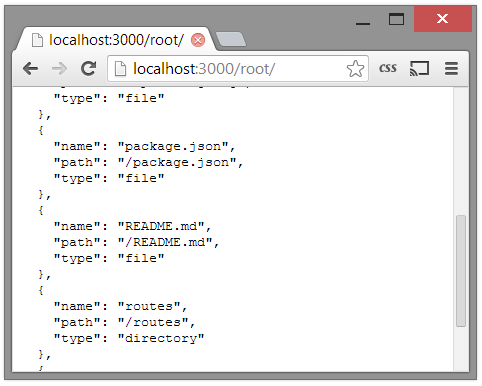
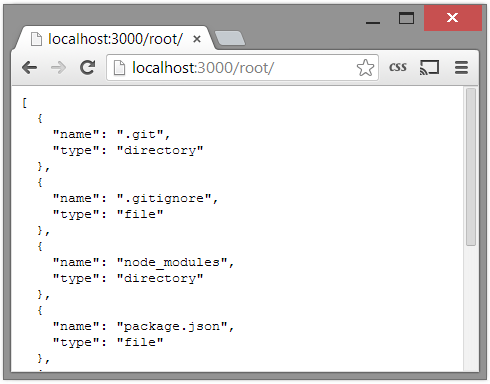
guide update

diff --git a/README.md b/README.md
@@ -12,27 +12,33 @@ floppy
 - [Angular Connection](#50-angular-connection)
 
 ## 0.0 Technologies
-**floppy** can be used from any web browser, but it is more than just a web page. **floppy** would better be described as a file server. We will use [Node.js](http://nodejs.org) and a node module [Express](http://expressjs.com) to implement this service. On the web page side a mix of jQuery, Bootstrap, and AngularJS will power an intuitive interface.
+**floppy** can be used from any web browser, but it is more than just a web page. 
+**floppy** would better be described as a file server. 
+We will use [Node.js](http://nodejs.org) and a node module [Express](http://expressjs.com) to implement this service. 
+On the web page side a mix of [AngularJS](http://angularjs.org) and [Bootstrap](http://getbootstrap.com) will power an intuitive interface.
 
 ## 1.0 Serving
-In this chapter we create a simple web server that is mapped onto your filesytem using a chosen root directory. This system will make up our **floppy** server. When accessing our server, any URL that is down the `root/` path we should handle the HTTP request in two ways.
+First we create a simple web server that is mapped onto your filesytem using a chosen root directory. 
+This system will make up our **floppy** server. When accessing our server, any URL that is down the `root/` path we should handle the HTTP request in two ways.
 
-1. If the URL maps to a file, let the client download the desired file.
-2. If the URL maps to the directory, return a JSON file containing the contents of the directory.
+1. If the URL maps to a file, let the client download the desired file;
+2. else (the URL maps to the directory), return a JSON file containing the contents of the directory.
 
 ### 1.1 Setting up Node
-[Node.js](http://nodejs.org) will be our server backend in **floppy**. Node is still in a very preliminary stage of development, and really isn't recommened for use in production environments. However, I believe Node is an amazingly innovative networked application framework and it is worth learning about, it will only get better. Node itself is easy to setup, just head to the [Node.js website](http://nodejs.org) and install Node. Be sure to also install `npm` the Node Package Manager.
+[Node.js](http://nodejs.org) will be our server backend in **floppy**. 
+Node is still in a very preliminary stage of development, and really isn't recommened for use in production environments. 
+However, I believe Node is an amazingly innovative networked application framework and it is worth learning about, it will only get better. 
+Node itself is easy to setup, just head to the [Node.js website](http://nodejs.org) and install Node. 
+Be sure to also install `npm` the Node Package Manager.
 
-After installation, using Node is as easy as starting up an instance of the Node.js command prompt. This terminal will give you access to Node utilities such as running programs and the Node package manager `npm`.
+After installation, using Node is as easy as starting up an instance of the Node.js command prompt. 
+This terminal will give you access to Node utilities such as running programs and the Node package manager `npm`.
 
 ### 1.2 Setting up Express
-[Express](http://expressjs.com) is a web application framework that we will use to easily create our file serving API. We will create a super simple Express application that will be our foundation for the **floppy** server.
+[Express](http://expressjs.com) is a web application framework that we will use to easily create our file serving API. 
+We will create a super simple Express application that will be our foundation for the **floppy** server.
 
 Inside a Node.js command prompt, create a folder for the **floppy** server and navigate inside.
-```shell
-mkdir floppy-server
-cd floppy-server
-```
 From here we will create our package description for our Node.js application. Copy the below configuration to `package.json`.
 ```json
 {
@@ -44,50 +50,74 @@ From here we will create our package description for our Node.js application. Co
 	}
 }
 ```
-The above is mostly self explanatory, with basic application information and a declaration that Express is a dependency. It is recommended to replace `"3.*"` with the most recent Express version, which can be found with `npm info express version`. At the time of writing, this was `3.5.1`.
+The above is mostly self explanatory, with basic application information and a declaration that Express is a dependency. 
+It is recommended to replace `"3.*"` with the most recent Express version, which can be found with `npm info express version`. 
+At the time of writing, this was `3.5.1`.
 
 Now to install our application dependencies, from the Node.js command prompt enter,
 ```shell
 npm install
 ```
-This will install Express and its own dependencies. The next step will finally involve code. We will create a simple Express instance that will basically be our hello world application.
+This command prompts Node to read our `package.json` and will install Express and its own dependencies. 
+If successful you will now have a `node_modules` directory.
+The next step will finally involve some code. 
+We will create a simple Express instance that will basically be our hello world application.
 
-We first create a file in our `floppy-server` directory named `server.js`. Inside we first `require(1)` Express and then create an instance (`require(1)` is similar to a Java or C `import`)
+We first create a file in our `server` directory named `server.js`. 
+Inside we first `require(1)` Express and then create an instance.
+`require(1)` is a Node function to import other Node modules and to make them available for our code.
 ```javascript
 var express = require('express');
 var app = express();
 ```
-We will now set up a route to respond to all HTTP requests. HTTP requests come with a request method, you may have heard of `GET` and `POST` from different ways to submit parameters to a webpage, but there are also others like `PUT` and `DELETE`. We can respond to these different request methods in different ways. For now we will respond to all HTTP request methods, this accounts for the `app.all(2)` call. The first argument is the URL we want to map, `'*'` is a wildcard to catch all URLs. We then use the Express [`Response`](http://expressjs.com/3x/api.html#res) object to send a simple HTML message back to the client in the callback.
+We will now set up a route to respond to all HTTP requests. 
+HTTP requests come with a request method, you may have heard of `GET` and `POST` from different ways to submit parameters to a webpage, but there are also others like `PUT` and `DELETE`. 
+We can respond to these different request methods in different ways. 
+For now we will respond to all HTTP request methods, this accounts for the `app.all(2)` call. 
+The first argument is the URL we want to map, `'*'` is a wildcard to catch all URLs. 
+We then use the Express [`Response`](http://expressjs.com/3x/api.html#res) object to send a simple HTML message back to the client in the callback.
 ```javascript
 // respond to all HTTP requests
 app.all('*', function(req, res) {
     res.send('Hello <strong>floppy</strong> user!');
 });
 ```
-The last step is to start the Express web server. This is a call to `app.server(2)` that opens a socket on the requested port. We also log to the console on success.
+The last step is to start the Express web server. 
+This is a call to `app.server(2)` that opens a socket on the requested port. 
+We also log to the console on success.
 ```javascript
 // start listening for HTTP requests
 var server = app.listen(3000, function() {
     console.log('Listening on port %d', server.address().port);
 });
 ```
-The last step is to run the server. Return to the Node.js command prompt and your working directory and enter,
+The all there is to do is run the server. 
+Return to the Node.js command prompt and your working directory and enter,
 ```shell
 node server
 ```
-You should receive a message that the server is running on port 3000. Open up your favorite browser and navigate to [http:\\\\localhost:3000](http:\\localhost:3000). You should be greeted by your friendly greeting. Note that any URL you enter will result in the same response from the server.
+You should receive a message that the server is running on port 3000. 
+Open up your favorite browser and navigate to [http:\\\\localhost:3000](http:\\localhost:3000). 
+You should be greeted by your friendly greeting. 
+Note that any URL you enter will result in the same response from the server.
 
 ![hello floppy user](images/01.png)
 
 For a more in-depth tutorial on Express and routes I would recommend [Introduction to Express](http://code.tutsplus.com/tutorials/introduction-to-express--net-33367).
 
-[View Commit](https://github.com/colinbrownec/floppy-server/commit/8f639aaedbcab9c4f26f158d6b9f66e74b44afc2)
+[View Commit](https://github.com/colinbrownec/floppy/commit/38e2c3c98cdabea8ac986da9c0a2912eefaa2c31)
 
 ## 2.0 Serving the File System
-Now that we have a simple server, we want to have it return some useful information. We will now change our Express server to return results based on URL. The first thing to do is replace the `app.all(2)` with `app.get(2)`. Both calls are part of the `app.VERB(2)` routing commands where `VERB` is the matching HTML request method. We now only care about `GET` request methods since we will be implementing procedures to read data.
+Now that we have a simple server, we want to have it return some useful information. 
+We will now change our Express server to return results based on URL. 
+The first thing to do is replace the `app.all(2)` with `app.get(2)`. 
+Both calls are part of the `app.VERB(2)` routing commands where `VERB` is the matching HTML request method. 
+We now only care about `GET` request methods since we will be implementing procedures to read data.
 
 ### 2.1 Finding the Path
-Usually Express is used to narrow down what function to call be setting up various routes and using paramters. We really don't need specific routes and parameters, our one paramter is the URL path. But to make sure we can add more routes later we will route the URL `/root/` to our application.
+Usually Express is used to narrow down what function to call by setting up various routes and using paramters. 
+We really don't need specific routes and parameters, our one paramter is the URL path. 
+But to make sure we can add more routes later we will route the URL `/root/` to our application.
 
 We place the following code in a new file `floppy-server/routes/floppy.js`,
 ```javascript
@@ -95,7 +125,8 @@ exports.parse = function(req, res) {
     res.send(req.params[0]);
 };
 ```
-This is a Node.js module package that basically acts as a class definition. We import our newly created module in `server.js`,
+This is a Node.js module package that basically acts as a class definition. 
+We import our newly created module in `server.js`,
 ```javascript
 var express = require('express');
 var floppy = require('./routes/floppy');
@@ -112,10 +143,13 @@ var server = app.listen(3000, function() {
     console.log('Listening on port %d', server.address().port);
 });
 ```
-The `require(1)` statement creates an instance of our floppy module which we save in a variable named `floppy`. Running the application will now start a server that echoes any URL that is down the `/root/` path. Note that `/root/` is already removed from the current path. 
+The `require(1)` statement creates an instance of our floppy module which we save in a variable named `floppy`. 
+Running the application will now start a server that echoes any URL that is down the `/root/` path. 
+Note that `/root/` is already removed from the current path. 
 
 ### 2.2 Parsing the Path
-We can now further develop our `floppy.parse(2)` method to implement our file server. Below is our updated `routes/floppy.js` file.
+We can now further develop our `floppy.parse(2)` method to implement our file server. 
+Below is our updated `routes/floppy.js` file.
 ```javascript
 var fs =    require('fs');
 var path =  require('path');
@@ -155,30 +189,38 @@ exports.parse = function(req, res) {
     }
 };
 ```
-There is much new functionality. We first also include the Node modules [`fs`](http://nodejs.org/api/fs.html), which provides many file system methods, and [`path`](http://nodejs.org/api/path.html) which resolves URL's to make sure the are safe and accurate. We also have a `root` variable that is a floppy-relative (or explicit) path that we want `/root/` to map to. We also provide a mechanism to update this root via `floppy.root(1)`.
+There is much new functionality. We first also include the Node modules [`fs`](http://nodejs.org/api/fs.html), which provides many file system methods, and [`path`](http://nodejs.org/api/path.html) which resolves URL's to make sure the are safe and accurate. 
+We also have a `root` variable that is a floppy-relative (or explicit) path that we want `/root/` to map to. 
+We also provide a mechanism to update this root via `floppy.root(1)`.
 
-The largest changes are in the `floppy.parse(2)` implementation. Given a URL we check to see if it is valid; if it is we either return the file requested, or return an array of file names if it is a directory. If the URL requested is bad then we return an error message.
+The largest changes are in the `floppy.parse(2)` implementation. 
+Given a URL we check to see if it is valid; if it is we either return the file requested, or return an array of file names if it is a directory. 
+If the URL requested is bad then we return an error message.
 
-Run the application again. Using a browser, any URL in the `localhost:3000/root/` directory should either result in a directory listing or in a file download.
+Run the application again. 
+Using a browser, any URL in the `localhost:3000/root/` directory should either result in a directory listing or in a file download.
 
 ![floppy parsing](images/02.png)
 
-If you are experienced with Express, you may be thinking that it really isn't needed to do this. You would be correct, this is much too simple to need Express. However the scope of this project is large, and we will eventually want to handle different routes and HTTP request methods. So this is a good place to start.
+If you are experienced with Express, you may be thinking that it really isn't needed to do this. 
+You would be correct, this is much too simple to need Express. 
+However the scope of this project is large, and we will eventually want to handle different routes and HTTP request methods. 
+So this is a good place to start.
 
-[View Commit](https://github.com/colinbrownec/floppy-server/commit/f34b175c12957704c6fff4111a3249f4e0daf63f)
+[View Commit](https://github.com/colinbrownec/floppy/commit/12b0b1e756f4bad439f6d757d64c12b0423fc98e)
 
 ## 3.0 Detailing the Directory
-Our handling for files right now is great, you ask for the file, we give it to you. Handling a directory could still use some work. For now we will use the following json structure to return the contents of a directory, where each directory item is a new object in the array.
+Our handling for files right now is great, you ask for the file, we give it to you. 
+Handling a directory could still use some work. 
+For now we will use the following json structure to return the contents of a directory, where each directory item is a new object in the array.
 ```json
 [
   {
     "name": "a_file.txt",
-    "path": "/a_file.txt",
     "type": "file"
   },
   {
     "name": "more_files",
-    "path": "/more_files",
     "type": "directory"
   },
 ]
@@ -197,7 +239,6 @@ Below is the modified code that returns the response to a directory HTTP `GET` r
                 var fstat = fs.statSync(path.resolve(url, name));
                 
                 var file = { 'name': name,
-                             'path': '/' + name,
                              'type': fstat.isFile() ? 'file' : 'directory'
                            };
                 results.push(file);
@@ -212,7 +253,7 @@ This really shouldn't seem that different. Instead of just returning our array o
 
 ![aggregated directory information](images/03.png)
 
-[View Commit](https://github.com/colinbrownec/floppy-server/commit/039b4991f7719551d28ffac7e7d6901f1c58f892)
+[View Commit](https://github.com/colinbrownec/floppy/commit/a579a3cb5c72ebc829b5e334bfff65236f3de675)
 
 ## 4.0 Client Model
 The **floppy** client is a separate web application that must know how to connect to a floppy server. 
@@ -220,6 +261,9 @@ We will be using AngularJS which is an amazing implementation of the Model-View-
 I view the `.html` as the model, `.css` as the view and `.js` as the controller. 
 This could be said about libraries like jQuery, but AngularJS is special because it provides two way data binding.
 Two way data binding allows you to bind a variable to an input box, and when the input value changes the variable updates and when the variable changes the input box updates.
+We start using an initial html template, containing only boilerplate import statements and a few header tags.
+
+[View Commit](https://github.com/colinbrownec/floppy/commit/be5e48d72c0c8018ae0749e60c281265c5067e64)
 
 ### 4.1 Layout
 Before we start making a functional client we need to know what the client will look like.
@@ -252,6 +296,6 @@ it also provides the perfect template to make in AngularJS.
 
 ![aggregated directory information](images/04.png)
 
-[View Commit](https://github.com/colinbrownec/floppy-client/commit/4446c784eaf6f562c9cc74001060c2609f0f8e3f)
+[View Commit](https://github.com/colinbrownec/floppy/commit/4682a1159831f5ec76fa82251b84e79d8de1289e)
 
 ## 5.0 Angular Connection
